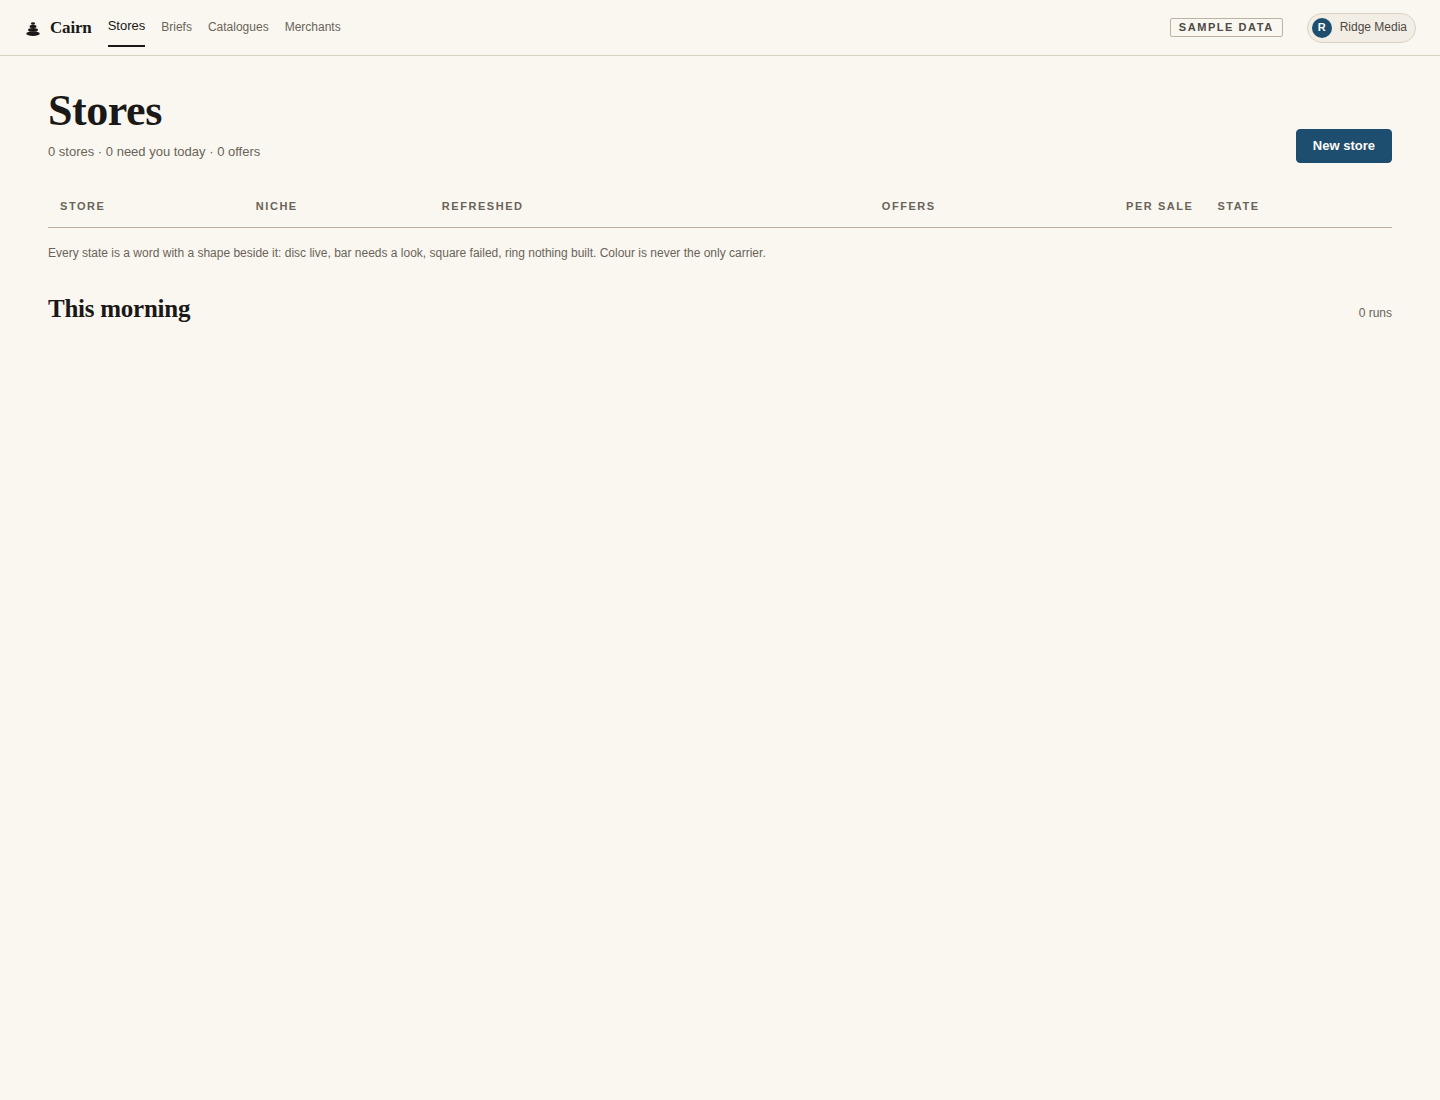
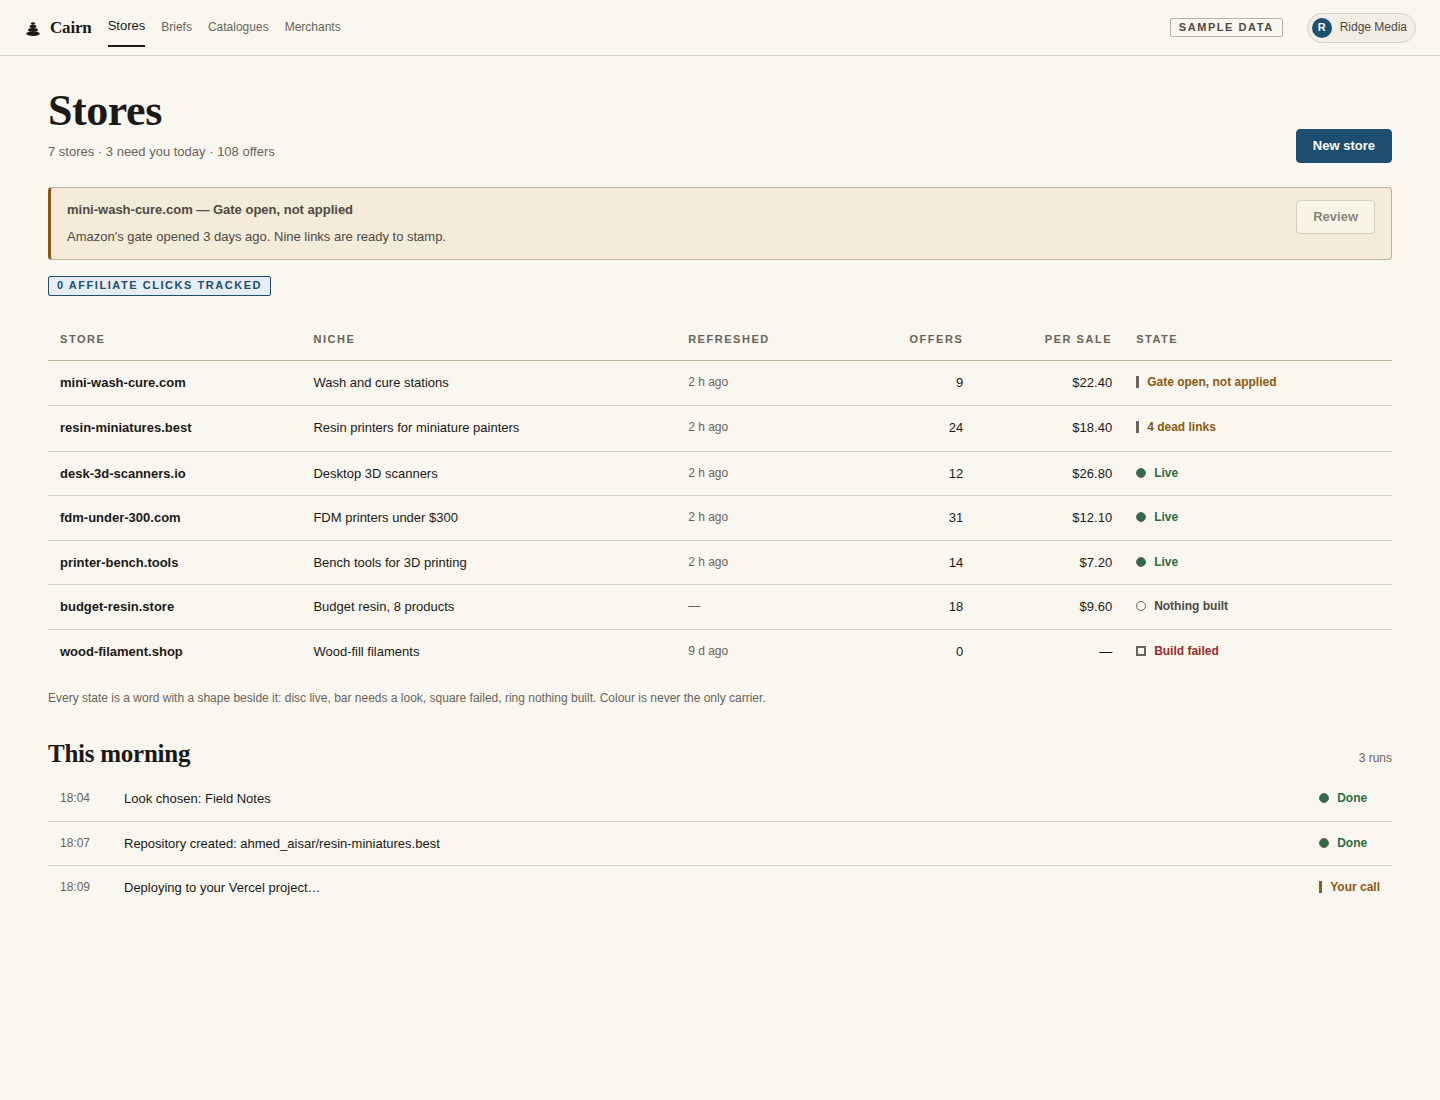
Re-shot all six screenshots against the current build
ESM-native module loader, the honest empty states for newly created stores,
the catalogue approval 500 fix and the input-hardening all changed what the
screens look like; the old captures were from the earlier build.

screenshot.mjs committed alongside so the owner can re-run `node scripts/screenshot.mjs` after any visual change.

diff --git a/docs/work/screenshots.md b/docs/work/screenshots.md
@@ -6,7 +6,7 @@ No browser user or display server was used; this is the closest this host can ge
 | File | Route | Width | Note |
 |---|---|---|---|
 | `front-door-1440.png` | `/` | 1440 | 28 KB |
-| `stores-1440.png` | `/stores` | 1440 | capture at `networkidle + 600ms`; note there is also an *earlier* `app-stores-1440.png` taken before the React fetch resolved, showing an empty table — a genuinely useful negative: the app renders its empty state coherently |
+| `stores-1440.png` | `/stores` | 1440 | re-shot 07:36 after the ESM + empty-state fixes; note there is also an *earlier* `app-stores-1440.png` taken before the React fetch resolved, showing an empty table — a genuinely useful negative: the app renders its empty state coherently |
 | `niche-1440.png` | `/stores/resin-miniatures/niche` | 1440 | brief + evidence renders from `/api/.../brief` |
 | `storefront-1440.png` | `/stores/resin-miniatures/preview` | 1440 | reader screen |
 | `stores-390.png` | `/stores` | 390 | phone width |
